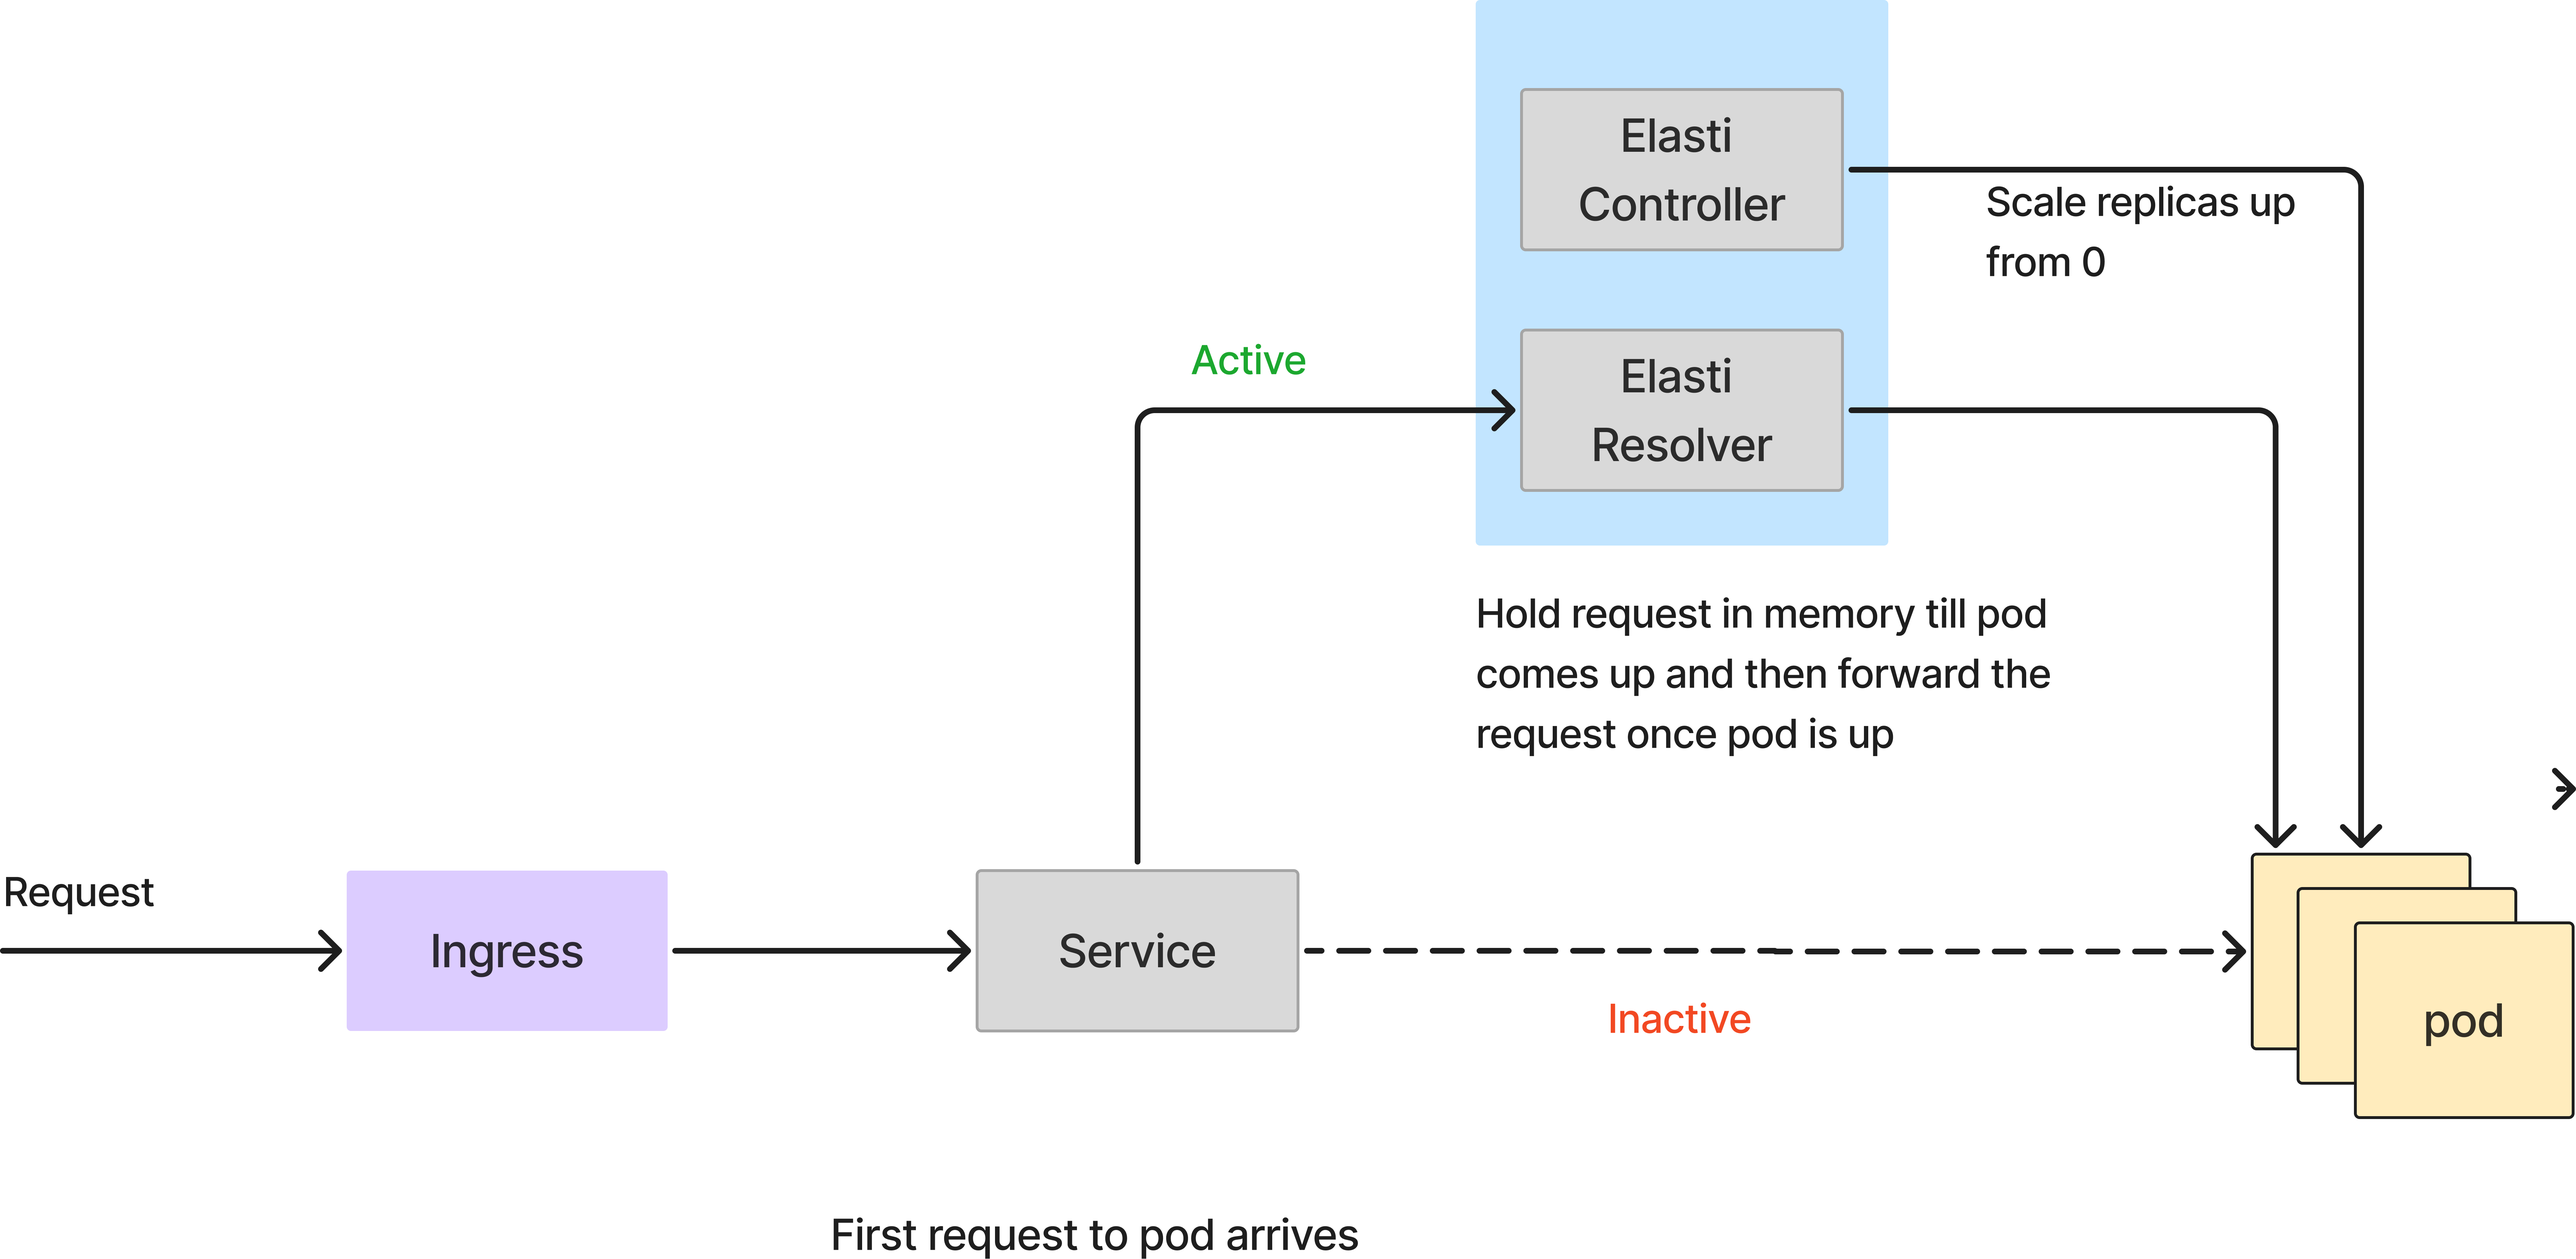
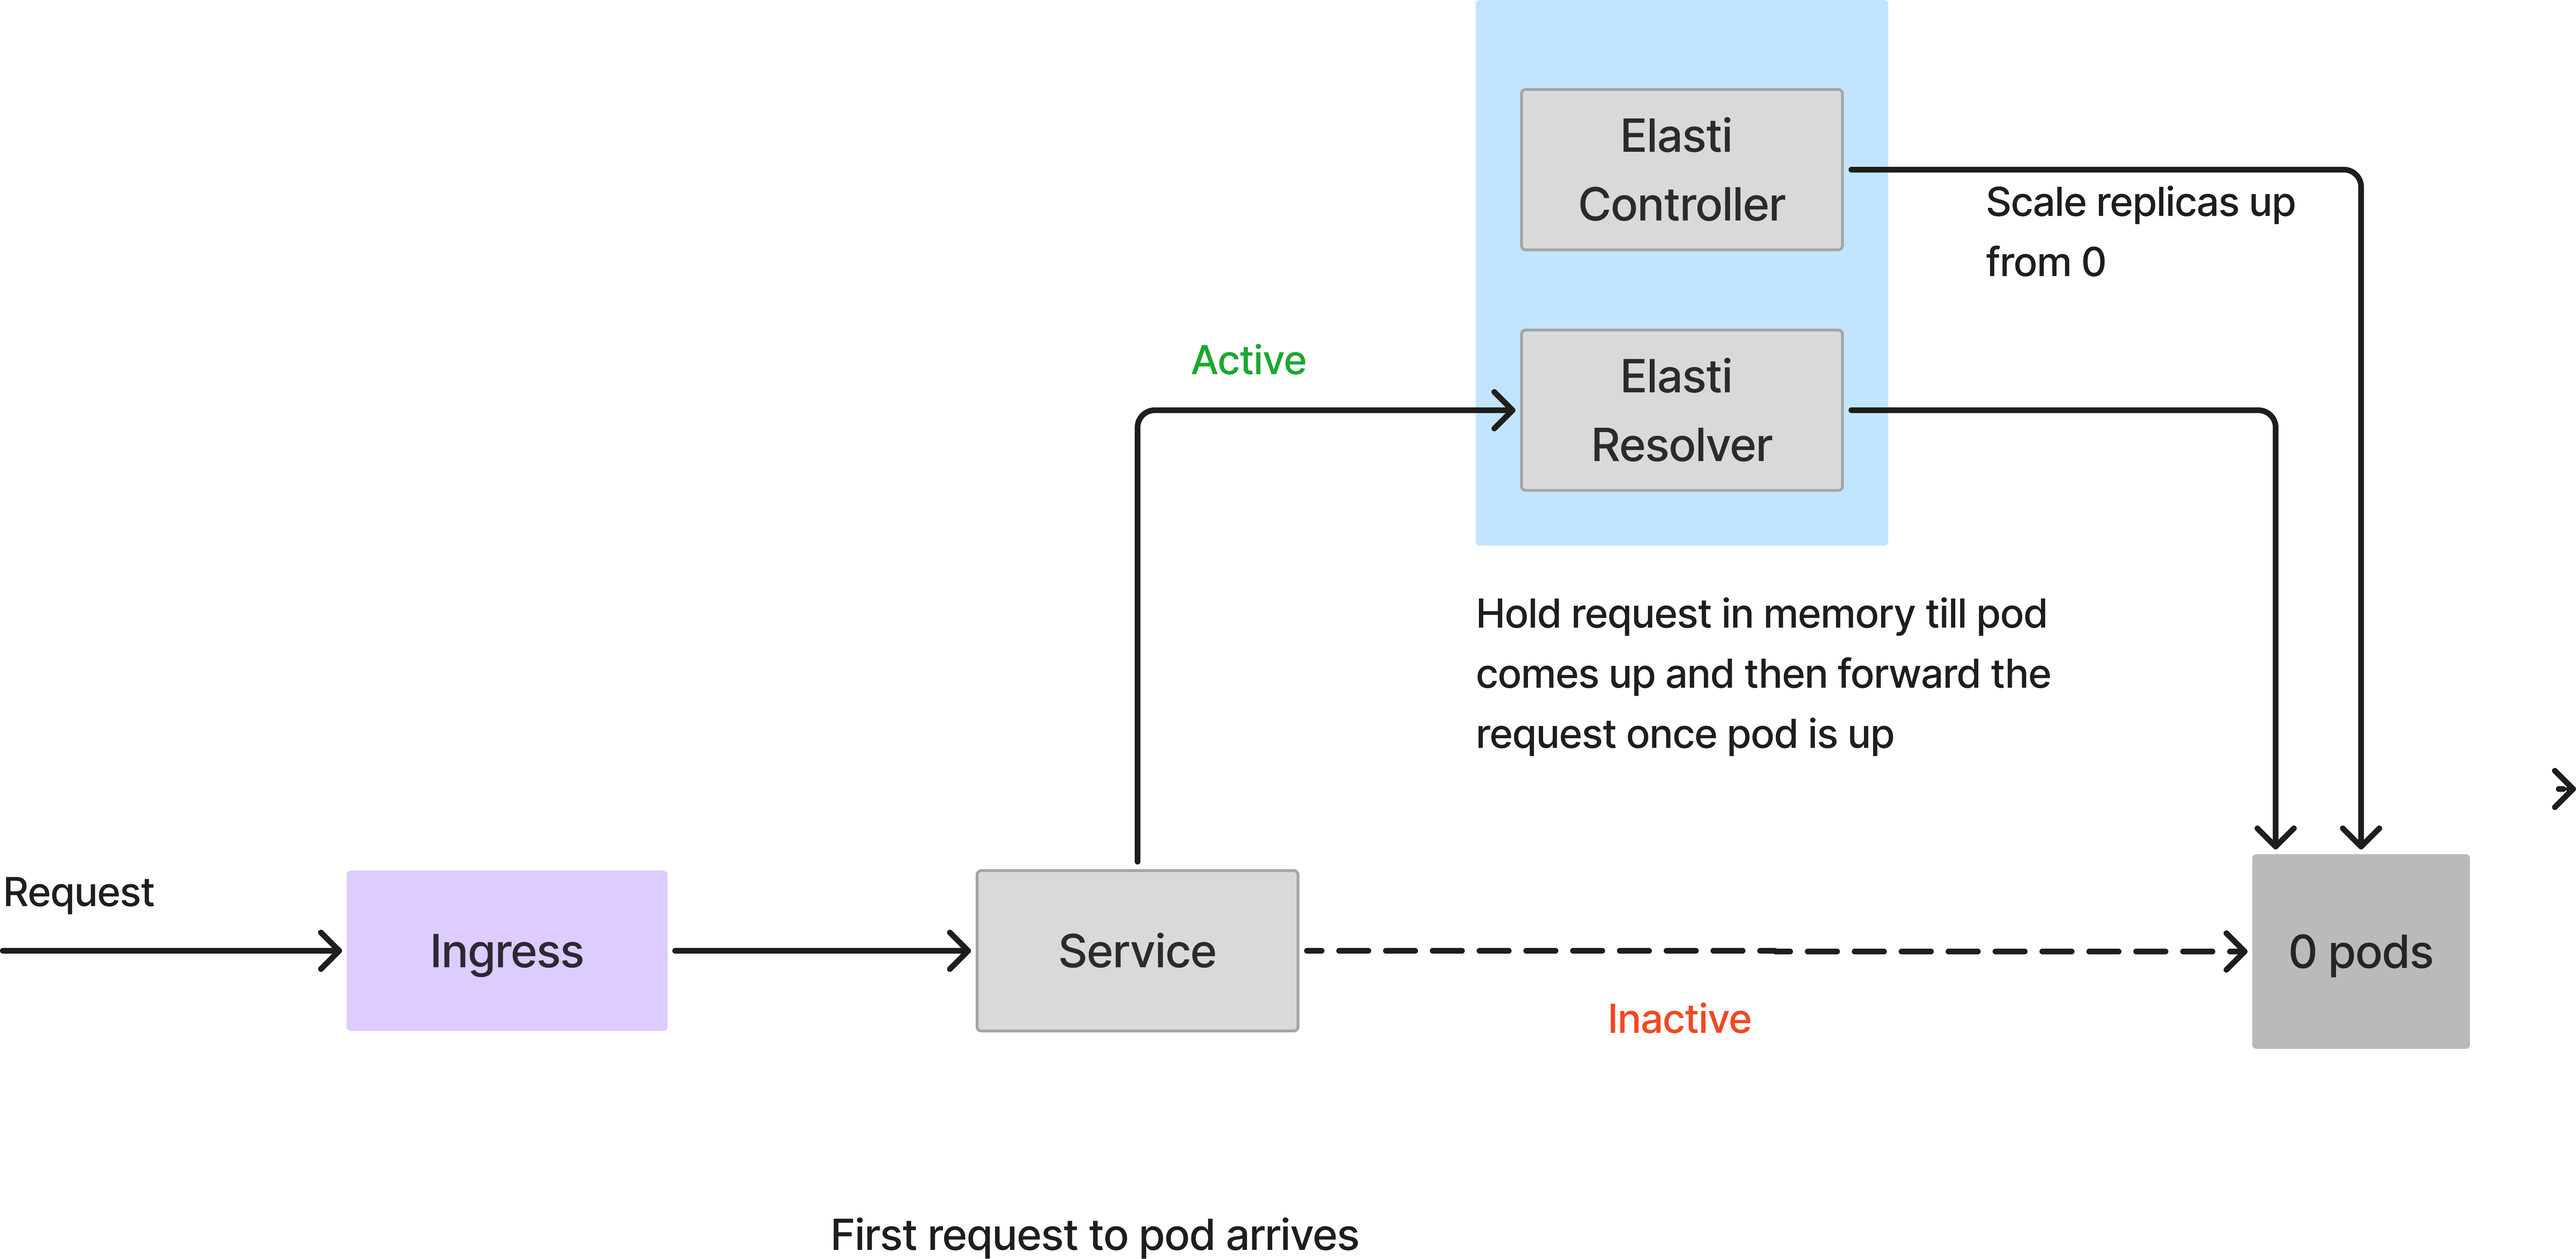
Changes in architecture

Changed region(s): [[0.8721, 0.6508, 1.0, 0.8988]]

diff --git a/docs/architecture.md b/docs/architecture.md
@@ -6,110 +6,43 @@ Elasti comprises of two main components: operator and resolver.
 - **Controller**: A Kubernetes controller built using kubebuilder. It monitors ElastiService resources and scaled them to 0 or 1 as needed.
 - **Resolver**: A service that intercepts incoming requests for scaled-down services, queues them, and notifies the elasti-controller to scale up the target service.
 
+## Flow Description
+
+When we enable Elasti on a service, the service operates in 3 modes:
+
+1. **Steady State**: The service is receiving traffic and doesn't need to be scaled down to 0.
+2. **Scale Down to 0**: The service hasn't received any traffic for the configured duration and can be scaled down to 0.
+3. **Scale up from 0**: The service receives traffic again and can be scaled up to the configured minTargetReplicas.
+
+<div align="center">
+<img src="./assets/architecture/flow.png" width="1000px">
+</div>
+
+### Steady state flow of requests to service
+
+In this mode, all the requests are handled directly by the service pods. The Elasti resolved doesn't come into the picture. Elasti controller keeps polling prometheus with the configured query and check the result with threshold value to see if the service can be scaled down.
+
 <div align="center">
 <img src="./assets/architecture/1.png" width="1000px">
 </div>
+
+### Scale down to 0 when there are no requests
+
+If the query from prometheus returns a value less than the threshold, Elasti will scale down the service to 0. Before it scales to 0, it redirects the requests to be forwarded to the Elasti resolver and then modified the Rollout/deployment to have 0 replicas. It also then pauses Keda (if Keda is being used) to prevent it from scaling the service up since Keda is configured with minReplicas as 1. 
 
 <div align="center">
 <img src="./assets/architecture/2.png" width="1000px">
 </div>
 
+### Scale up from 0 when the first request arrives.
+
+Since the service is scaled down to 0, all requests will hit the Elasti resolver. When the first request arrives, Elasti will scale up the service to the configured minTargetReplicas. It then resumes Keda to continue autoscaling in case there is a sudden burst of requests. It also changes the service to point to the actual service pods once the pod is up. The requests which came to ElastiResolver are retried till 5 mins and the response is sent back to the client. If the pod takes more than 5 mins to come up, the request is dropped.
+
 <div align="center">
 <img src="./assets/architecture/3.png" width="1000px">
 </div>
 
+
 <div align="center">
 <img src="./assets/architecture/4.png" width="1000px">
 </div>
-
-
-### Flow Description
-
-- **[CRD Created]** The Operator fetches details from the CRD.
-   1. Adds a finalizer to the CRD, ensuring it is only deleted by the Operator for proper cleanup.
-   2. Fetches the `ScaleTargetRef` and initiates a watch on it.
-   3. Adds the CRD details to a `crdDirectory`, caching the details of all CRDs.
-- **[ScaleTargetRef Watch]** When a watch is added to the `ScaleTargetRef`:
-   1. Identifies the kind of target and checks the available ready pods.
-   2. If `replicas == 0` -> Switches to **Proxy Mode**.
-   3. If `replicas > 0` -> Switches to **Serve Mode**.
-   4. Currently, it supports only `deployments` and `rollouts`.
-
-- **When pods scale to 0**
-
-- **[Switch to Proxy Mode]**
-   1. Creates a Private Service for the target service. This allows the resolver to reach the target pod, even when the public service has been modified, as described in the following steps.
-   2. Creates a watch on the public service to monitor changes in ports or selectors.
-   3. Creates a new `EndpointSlice` for the public service to redirect any traffic to the resolver.
-   4. Creates a watch on the resolver to monitor the addition of new pods.
-
-- **[In Proxy Mode]**
-    1. Traffic reaching the target service, which has no pods, is sent to the resolver, capable of handling requests on all endpoints.
-    2. [**In Resolver**]
-       1. Once traffic hits the resolver, it reaches the `handleAnyRequest` handler.
-       2. The host is extracted from the request. If it's a known host, the cache is retrieved from `hostManager`. If not, the service name is extracted from the host and saved in `hostManager`.
-       3. The service name is used to identify the private service.
-       4. Using `operatorRPC`, the controller is informed about the incoming request.
-       5. The request is sent to the `throttler`, which queues the requests. It checks if the pods for the private service are up.
-          1. If yes, a proxy request is made, and the response is sent back.
-          2. If no, the request is re-enqueued, and the check is retried after a configurable time interval (set in the Helm values file).
-       6. If the request is successful, traffic for this host is disabled temporarily (configurable). This prevents new incoming requests to the resolver, as the target is now verified to be up.
-    3. [**In Controller/Operator**]
-       1. ElastiServer processes requests from the resolver, containing the service experiencing traffic.
-       2. Matches the service with the `crdDirectory` entry to retrieve the `ScaleTargetRef`, which is then used to scale the target.
-       3. Evaluates triggers defined in the ElastiService:
-           - If **any** trigger indicates that the service should be scaled up -> Scales to minTargetReplicas
-       4. Once scaled up, switches to **Serve Mode**
-
-- **When pods scale to 1**
-
-- **[Switch to Serve Mode]**
-    1. The Operator stops the informer/watch on the resolver.
-    2. The Operator deletes the `EndpointSlice` pointing to the resolver.
-    3. The system switches to **Serve Mode**.
-- **[In Serve Mode]**
-    1. Traffic hits the gateway, is routed to the target service, then to the target pod, and resolves the request.
-    2. The Operator periodically evaluates triggers defined in the ElastiService.
-    3. If **all** triggers indicate that the service is to be scaled down and cooldownPeriod has elapsed since last scale-up:
-        - Scales down the target service to zero replicas
-        - Switches to **Proxy Mode**
-
-
-## 3. Controller
-
-<div align="center">
-<img src="./assets/lld-operator.png" width="1000px">
-</div>
-
-## 4. Resolver
-
-<div align="center">
-<img src="./assets/lld-resolver.png" width="800px">
-</div>
-
-## 5. Helm Values
-
-Values you can pass to elastiResolver env.
-```yaml
-
-# HeaderForHost is the header to look for to get the host. X-Envoy-Decorator-Operation is the key for istio
-headerForHost: X-Envoy-Decorator-Operation
-# InitialCapacity is the initial capacity of the semaphore
-initialCapacity: "500"
-maxIdleProxyConns: "100"
-maxIdleProxyConnsPerHost: "500"
-# MaxQueueConcurrency is the maximum number of concurrent requests
-maxQueueConcurrency: "100"
-# OperatorRetryDuration is the duration for which we don't inform the operator
-# about the traffic on the same host
-operatorRetryDuration: "10"
-# QueueRetryDuration is the duration after we retry the requests in queue
-queueRetryDuration: "3"
-# QueueSize is the size of the queue
-queueSize: "50000"
-# ReqTimeout is the timeout for each request
-reqTimeout: "120"
-# TrafficReEnableDuration is the duration for which the traffic is disabled for a host
-# This is also duration for which we don't recheck readiness of the service
-trafficReEnableDuration: "5"
-```

diff --git a/docs/configure-elastiservice.md b/docs/configure-elastiservice.md
@@ -41,7 +41,10 @@ The key fields to be specified in the spec are:
   - `<autoscaler-type>`: keda
   - `<autoscaler-object-name>`: Name of the KEDA ScaledObject
 
-The configuration helps define the different functionalities of Elasti.
+
+## Configuration Explanation
+
+The section below explains how are the different configuration options used in Elasti.
 
 ### Which service to apply elasti on
 
